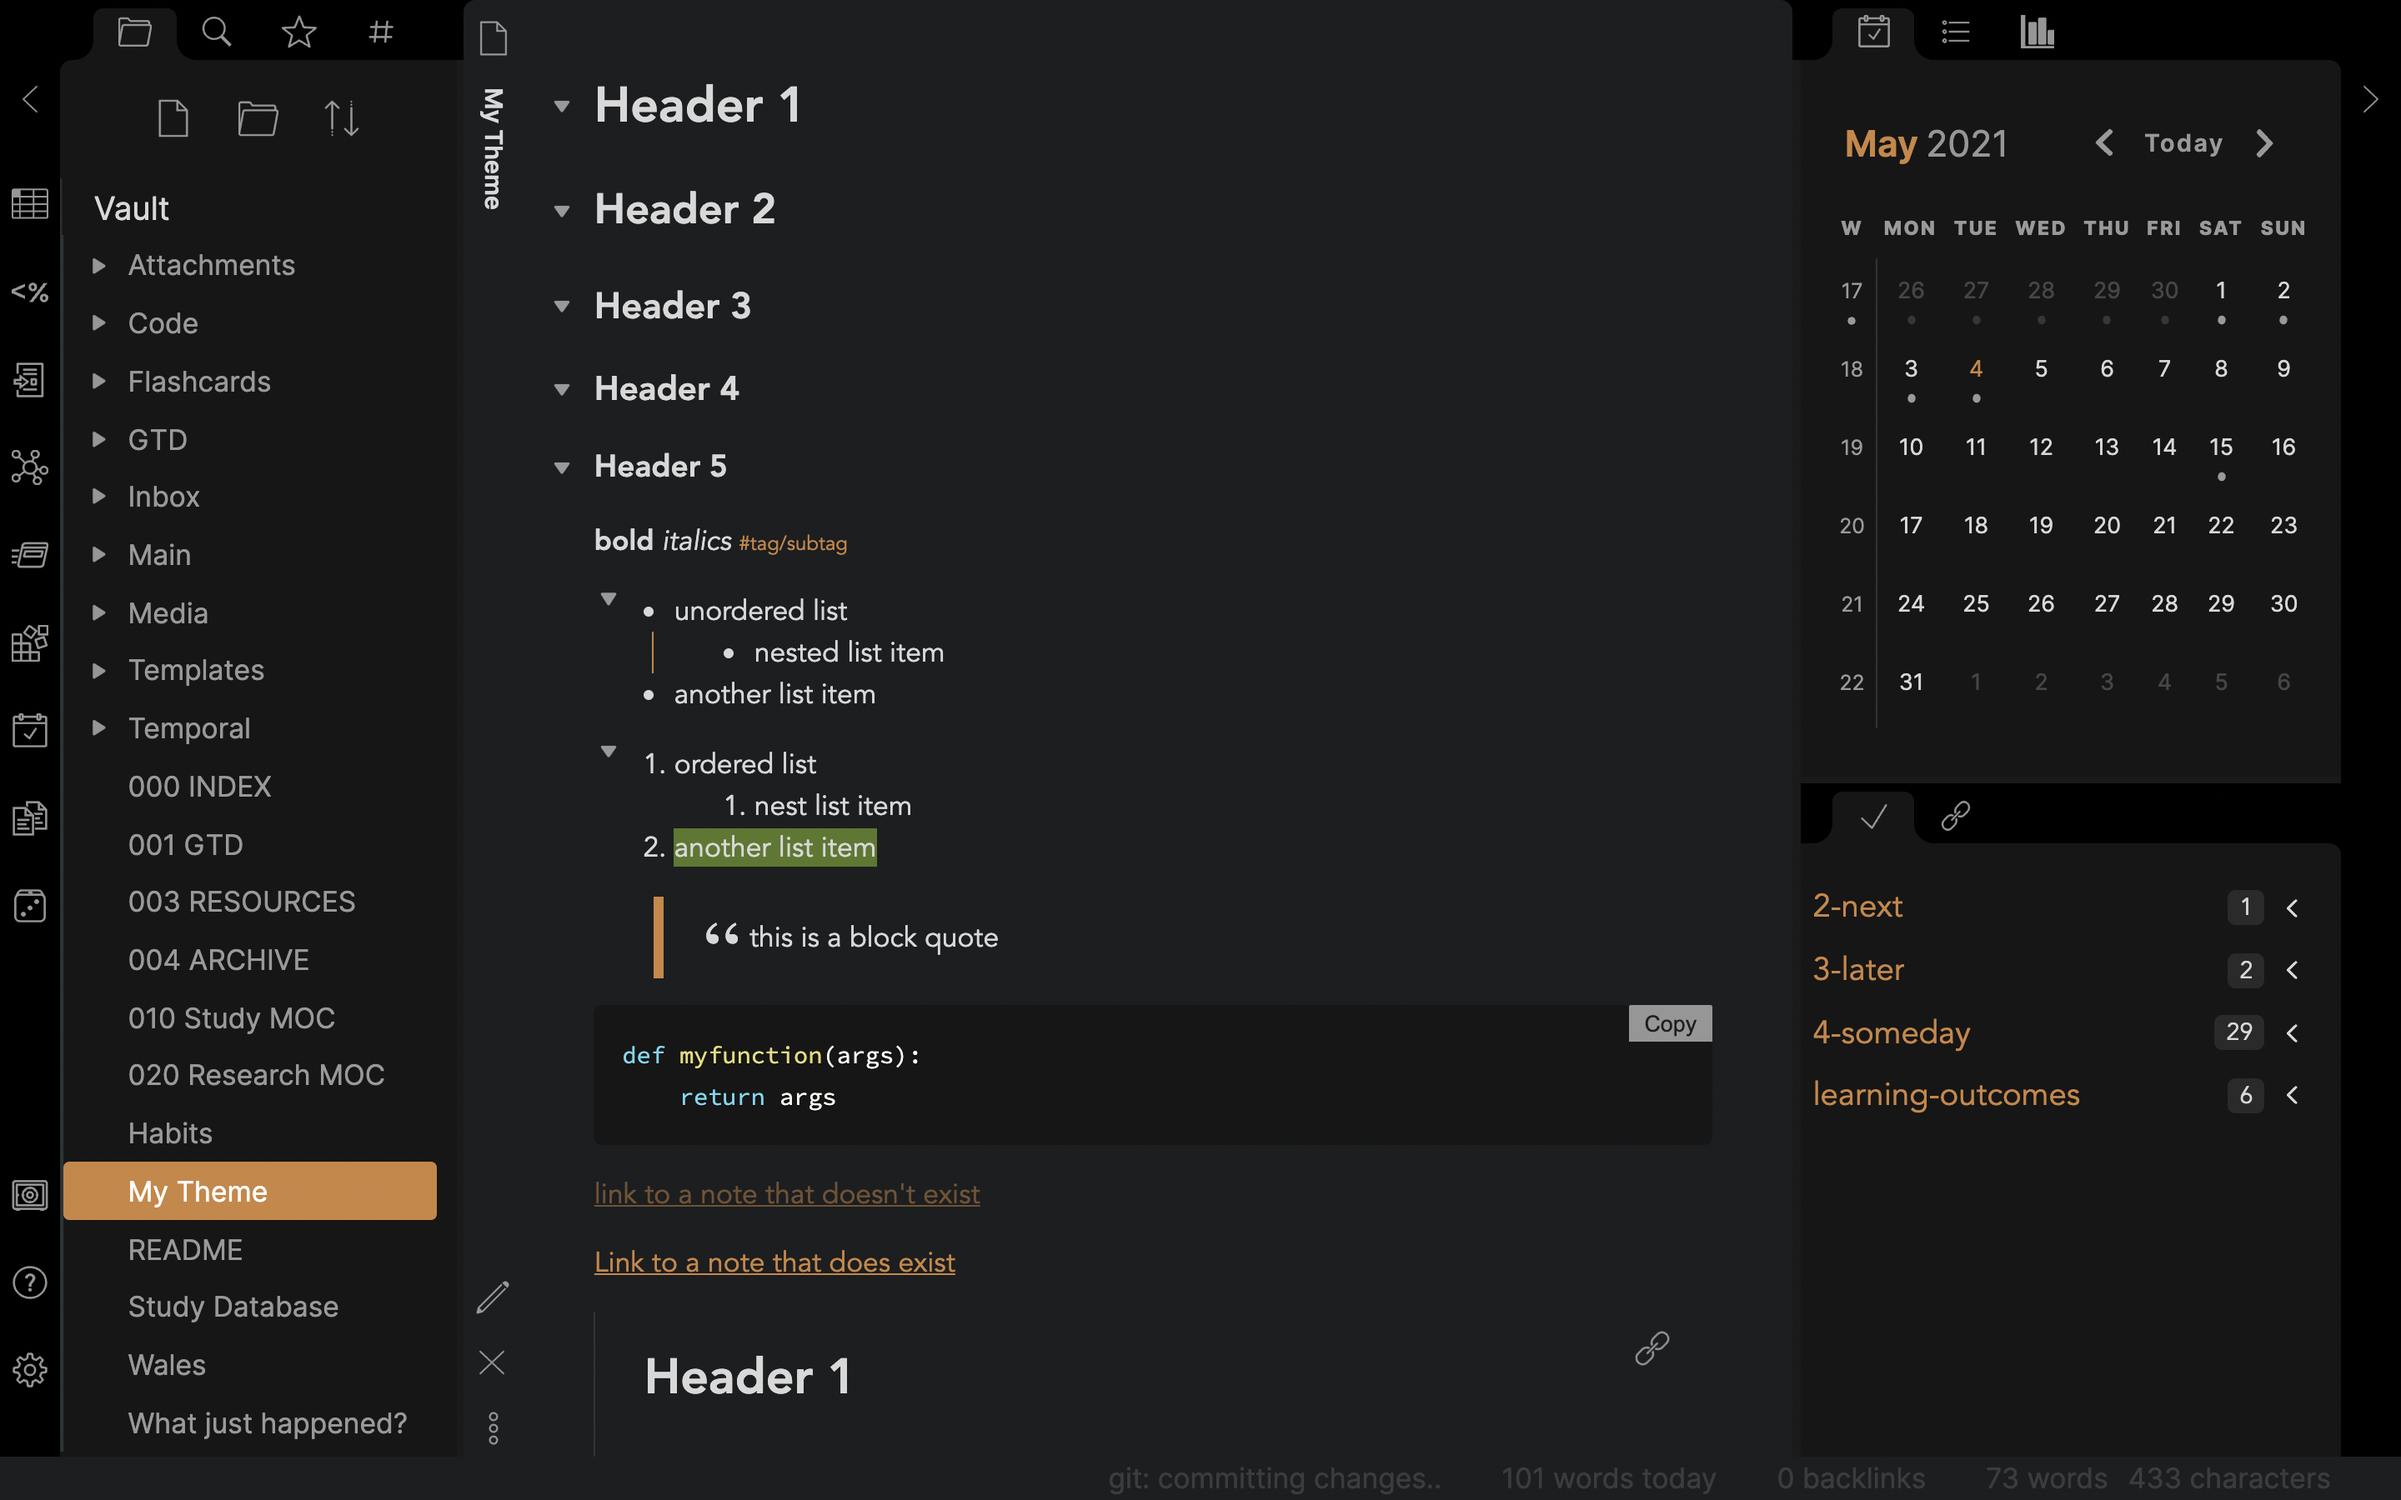
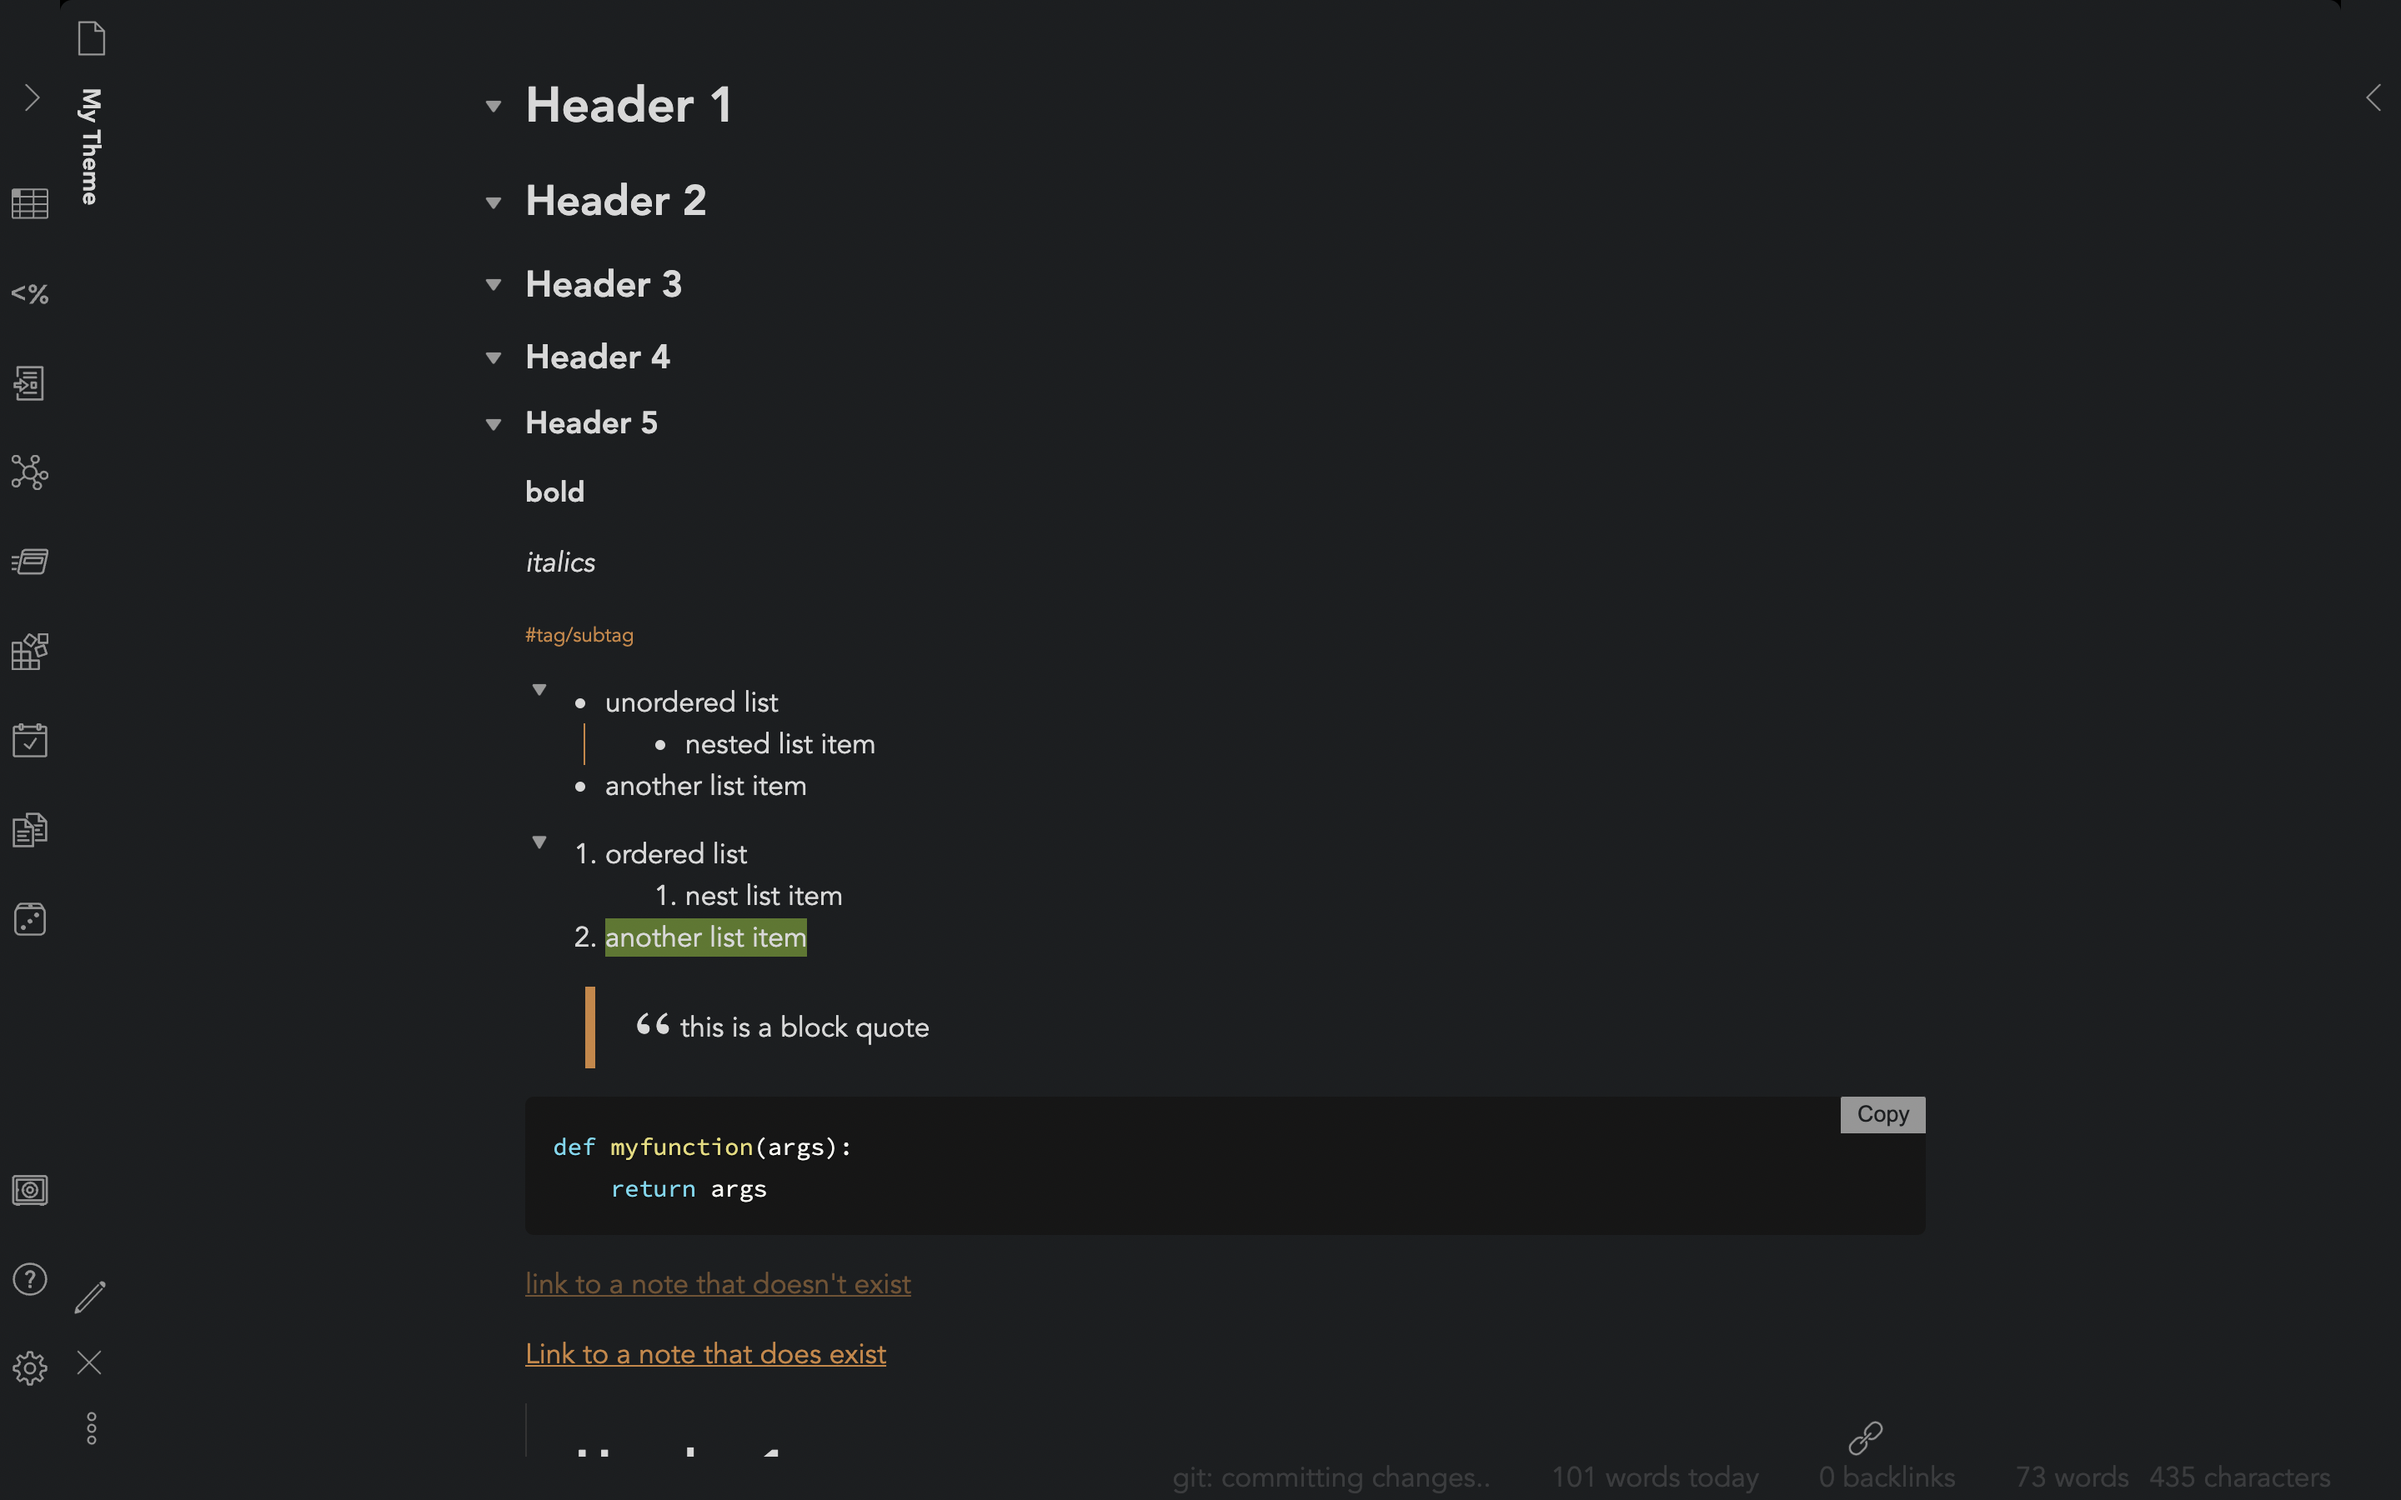
now using default font

diff --git a/style.css b/style.css
@@ -5,7 +5,7 @@
 /*---- FONTS ----*/
 
 :root {
-    --default-font: 'Inter', -apple-system, BlinkMacSystemFont, "Segoe UI", Roboto, Helvetica, Arial, sans-serif, "Apple Color Emoji", "Segoe UI Emoji", "Segoe UI Symbol", "Microsoft YaHei Light", sans-serif;
+    --default-font: Avenir, "Avenir Next", "Avenir Next Cyr", 'Inter', -apple-system, BlinkMacSystemFont, "Segoe UI", Roboto, Helvetica, Arial, sans-serif, "Apple Color Emoji", "Segoe UI Emoji", "Segoe UI Symbol", "Microsoft YaHei Light", sans-serif;
     --mermaid-font: var(--default-font);
     --reveal-font: var(--default-font);
     --font-monospace: 'Source Code Pro', monospace;
@@ -15,29 +15,29 @@ body {
     --editor-font-size: 14px;
 }
 
-h1 {
+.markdown-preview-view h1 {
     font-size: 175%;
-    line-height: 200%;
+    line-height: 150%;
 }
 
-h2 {
+.markdown-preview-view h2 {
     font-size: 150%;
-    line-height: 180%;
+    line-height: 140%;
 }
 
-h3 {
+.markdown-preview-view h3 {
     font-size: 130%;
-    line-height: 160%;
+    line-height: 130%;
 }
 
-h4 {
+.markdown-preview-view h4 {
     font-size: 120%;
-    line-height: 150%;
+    line-height: 120%;
 }
 
-h5 {
+.markdown-preview-view h5 {
     font-size: 110%;
-    line-height: 150%;
+    line-height: 110%;
 }
 
 .view-header-title {
@@ -54,6 +54,8 @@ Credit: Piotr, Obsidian forum
 div:not(.CodeMirror-activeline)>.CodeMirror-line span.cm-formatting-header,
 div:not(.CodeMirror-activeline)>.CodeMirror-line span.cm-formatting-strong,
 div:not(.CodeMirror-activeline)>.CodeMirror-line span.cm-formatting-em,
+div:not(.CodeMirror-activeline)>.CodeMirror-line span.cm-formatting-code-block,
+div:not(.CodeMirror-activeline)>.CodeMirror-line span.cm-formatting-highlight,
 div:not(.CodeMirror-activeline)>.CodeMirror-line span.cm-string.cm-url,
 div:not(.CodeMirror-activeline)>.CodeMirror-line span.cm-formatting-link,
 div:not(.CodeMirror-activeline)>.CodeMirror-line span.cm-hmd-barelink,
@@ -206,6 +208,11 @@ ul ul::before { left: -11px; top: 0; bottom: 0;
     color: var(--text-accent)!important;
 }
 
+.theme-light :not(pre) > code[class*="language-"], .theme-light pre[class*="language-"],
+.theme-dark :not(pre) > code[class*="language-"], .theme-dark pre[class*="language-"] {
+    background-color: var(--background-secondary);
+}
+
 /* ---------- GRAPH ------------- */
 
 .graph-controls {
@@ -232,10 +239,10 @@ ul ul::before { left: -11px; top: 0; bottom: 0;
     --background-secondary: #f5f6f8;
     --background-tag: #b5b5b5;
     --border-inline-code: rgb(215, 215, 215);
-    --code-block-background: #ffffff;
-    --code-block-border: #92a1a17a;
-    --font-family-editor: Avenir, "Avenir Next", "Avenir Next Cyr", 'Inter', -apple-system, BlinkMacSystemFont, "Segoe UI", Roboto, Helvetica, Arial, sans-serif, "Apple Color Emoji", "Segoe UI Emoji", "Segoe UI Symbol", "Microsoft YaHei Light", sans-serif;
-    --font-family-preview: Avenir, "Avenir Next", "Avenir Next Cyr", 'Inter', -apple-system, BlinkMacSystemFont, "Segoe UI", Roboto, Helvetica, Arial, sans-serif, "Apple Color Emoji", "Segoe UI Emoji", "Segoe UI Symbol", "Microsoft YaHei Light", sans-serif;
+    --code-block-background: #f5f6f8;
+    --code-block-border: #f5f6f8;
+    --font-family-editor: var(--default-font);
+    --font-family-preview: var(--default-font);
     --interactive-accent: rgb(203, 77, 73);
     --interactive-accent-muted: rgb(203, 77, 73, 0.5);
     --interactive-accent-hover: rgb(203, 77, 73);
